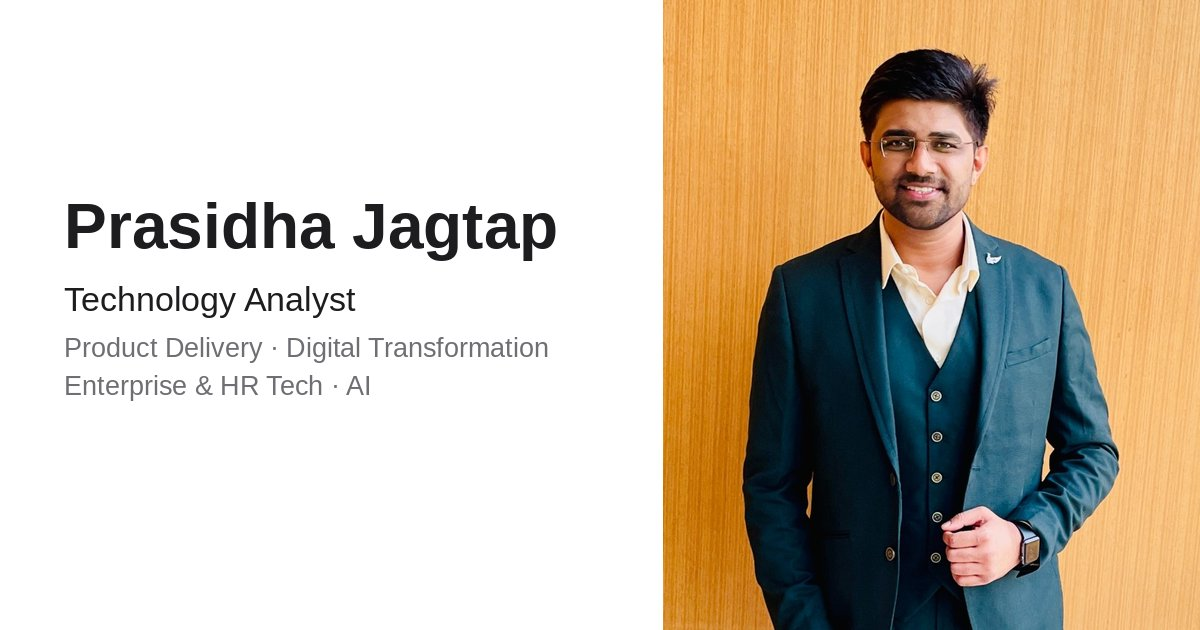
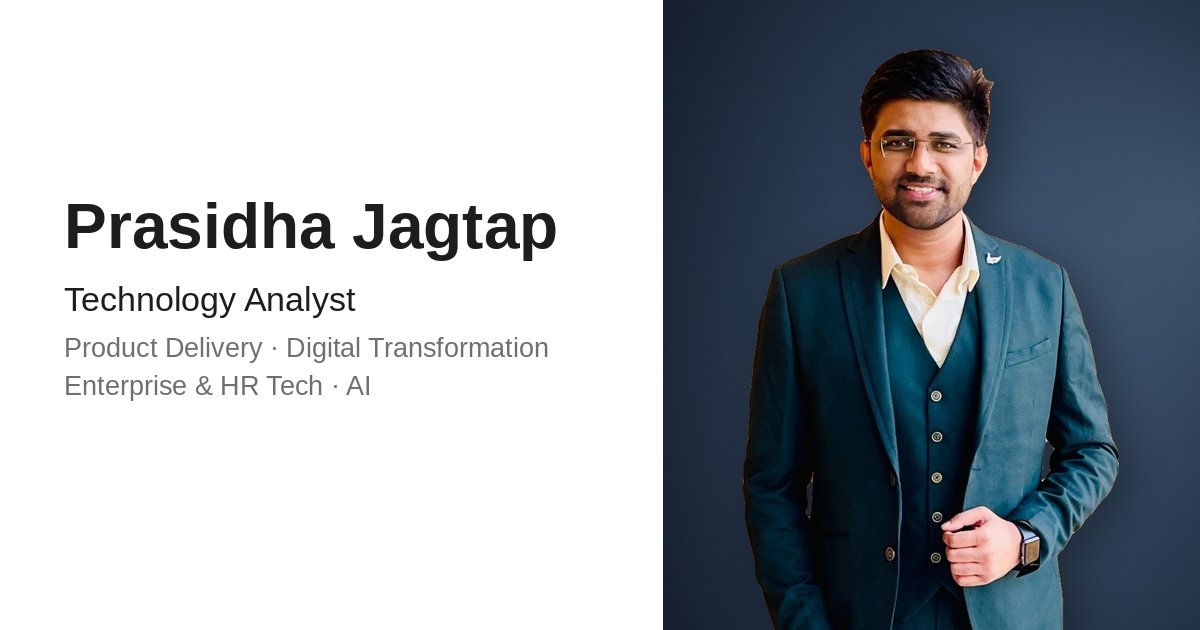
Navy studio photo, security hardening, readability, content updates
- Main photo: background removed, clean navy studio backdrop; share image too
- Security: strict Content-Security-Policy, referrer policy, frame
  protection (page hides inside other sites), noreferrer links, no inline
  scripts/styles; right-click and view-source shortcuts blocked (except
  in form fields)
- Readability: screen-adaptive spacing, darker secondary text, larger text
  on big monitors, no lone gaps on tablets, AI intro overlap fixed
- Content: Geo-Attendance split into geo-fencing training and own
  geo-tagging prototype; social media as a skill beyond the day-to-day
  role (3,500+ followers, 1,000+ avg impressions); Group Awards App
  end-to-end ownership; 5,000+ users trained; training caption
- Résumé rebuilt with the same changes

Claude-Session: https://claude.ai/code/session_01JPGdnBRq2TYSBfxkyxQch4

Changed region(s): [[0.5242, 0.0, 1.0, 1.0], [0.8633, 0.6937, 0.8942, 0.754]]

diff --git a/index.html b/index.html
@@ -4,6 +4,9 @@
   <meta charset="utf-8">
   <meta name="viewport" content="width=device-width, initial-scale=1, viewport-fit=cover">
   <meta http-equiv="X-UA-Compatible" content="IE=edge">
+  <!-- Security: only this site's own files (plus Google Fonts) may load; no injected scripts, frames or plugins -->
+  <meta http-equiv="Content-Security-Policy" content="default-src 'self'; script-src 'self'; style-src 'self' https://fonts.googleapis.com; font-src https://fonts.gstatic.com; img-src 'self' data:; connect-src 'self'; object-src 'none'; base-uri 'self'; form-action 'none'; frame-src 'none'; upgrade-insecure-requests">
+  <meta name="referrer" content="strict-origin-when-cross-origin">
 
   <!-- ===== SEO: main search result text ===== -->
   <!-- SITE ADDRESS: https://prasidhajagtap.github.io/projectP001/
@@ -41,12 +44,8 @@
   <link rel="preconnect" href="https://fonts.googleapis.com">
   <link rel="preconnect" href="https://fonts.gstatic.com" crossorigin>
   <link href="https://fonts.googleapis.com/css2?family=Inter:wght@400;500;600;700&display=swap" rel="stylesheet">
-  <link rel="stylesheet" href="style.css?v=9">
-  <script>
-    // Runs before the page paints: light by default, dark only if the visitor chose it before
-    document.documentElement.className += ' js';
-    try { if (window.localStorage && localStorage.getItem('theme') === 'dark') document.documentElement.setAttribute('data-theme', 'dark'); } catch (e) {}
-  </script>
+  <link rel="stylesheet" href="style.css?v=11">
+  <script src="theme-init.js?v=11"></script>
 
   <!-- ===== Structured data: tells Google and AI search who this page is about ===== -->
   <script type="application/ld+json">
@@ -317,7 +316,7 @@
               <ul>
                 <li>Enhanced the login experience with enterprise single sign-on (SSO) — 15% fewer login issues.</li>
                 <li>Enhanced account recovery and multi-device notification flows for a safer, smoother experience.</li>
-                <li>Built the Geo-Attendance prototype on my own — now used by 5,000+ employees.</li>
+                <li>Built a geo-tagging attendance prototype on my own initiative — fully working.</li>
               </ul>
             </div>
             <div class="area">
@@ -358,7 +357,7 @@
             <div class="area">
               <h4>Training &amp; enablement</h4>
               <ul>
-                <li>495 employees trained in 7 sessions, rated 4.54 / 5.</li>
+                <li>5,000+ users trained on how the app works, including geo-fencing attendance.</li>
                 <li>Clear user guides and stakeholder documents — 20% more feature use. 10+ live demos.</li>
               </ul>
             </div>
@@ -378,7 +377,7 @@
             </summary>
             <ul class="chips">
               <li>Digital ID Card</li>
-              <li>Geo-Attendance</li>
+              <li>Geo-fencing attendance</li>
               <li>Enterprise SSO sign-in</li>
               <li>Account recovery (PIN reset)</li>
               <li>PIN &amp; biometric login</li>
@@ -399,14 +398,20 @@
 
         <!-- Social media, separate from the core role -->
         <article class="role social reveal">
-          <p class="kicker">Alongside the core role</p>
+          <p class="kicker">Skills beyond my day-to-day role</p>
           <h3>Social media &amp; employer branding</h3>
-          <p class="role-intro">I run the company LinkedIn page end to end — content planning, writing, engagement and tracking — turning technology, product and people stories into posts that grow an audience.</p>
-          <div class="mini-stats">
+          <p class="role-intro">I managed the company LinkedIn page end to end — content planning, writing, engagement and tracking — turning technology, product and people stories into posts that grew an audience.</p>
+          <div class="mini-stats two">
             <div><strong>3,500+</strong><span>followers, up from 1,376</span></div>
-            <div><strong>8,068</strong><span>average views, up from 5,430</span></div>
-            <div><strong>58,980+</strong><span>total views</span></div>
+            <div><strong>1,000+</strong><span>average impressions per post</span></div>
           </div>
+          <ul class="chips skill-chips">
+            <li>Content strategy</li>
+            <li>Copywriting</li>
+            <li>Employer branding</li>
+            <li>Community engagement</li>
+            <li>Performance tracking</li>
+          </ul>
         </article>
 
         <!-- Earlier experience -->
@@ -438,10 +443,11 @@
 
         <div class="grid cases">
           <article class="card case reveal">
-            <p class="status">Self-initiative · Now live</p>
-            <h3>Geo-Attendance: from my prototype to a live feature</h3>
-            <p>Teams needed attendance tied to location. On my own time and initiative, I built a complete working prototype. It became the blueprint for the live HR app feature, which our development partner then built into the app.</p>
-            <p class="result"><strong>Used by 5,000+ employees</strong> across multiple locations.</p>
+            <p class="status">Geo-Attendance · Two parts</p>
+            <h3>Geo-fencing training &amp; a geo-tagging prototype</h3>
+            <p><strong>Geo-fencing:</strong> trained business teams on the live geo-fencing attendance feature and on how the app works, end to end.</p>
+            <p><strong>Geo-tagging:</strong> on my own time and initiative, I designed and built a complete, working geo-tagging attendance prototype.</p>
+            <p class="result"><strong>Self-initiative</strong> working prototype · <strong>business teams</strong> trained on geo-fencing.</p>
           </article>
 
           <article class="card case reveal">
@@ -459,9 +465,10 @@
           </article>
 
           <article class="card case reveal">
-            <p class="status">Event app</p>
+            <p class="status">Event app · End-to-end owner</p>
             <h3>Group Awards App</h3>
-            <p>Handled solutioning, upkeep and on-ground support of the event app for a group-wide awards programme in FY 2025&#8209;26, on both iOS and Android.</p>
+            <p>Managed and handled the complete app for a group-wide awards programme in FY 2025&#8209;26 — from solutioning and setup to running it live throughout the event, with on-ground support for attendees on iOS and Android.</p>
+            <ul class="stack"><li>Event-day app operations</li><li>Live issue resolution</li><li>On-ground user support</li><li>Stakeholder coordination</li><li>Store &amp; release readiness</li></ul>
             <p class="result"><strong>1,060 downloads</strong> — 598 iOS, 462 Android.</p>
           </article>
 
@@ -476,7 +483,7 @@
             <p class="status">Enablement</p>
             <h3>Helping people actually use the app</h3>
             <p>Wrote clear user guides and stakeholder documents that make the app easy to use, created standard templates, ran live demos and trained employees.</p>
-            <p class="result"><strong>20% more</strong> feature use · <strong>495</strong> people trained · <strong>35%</strong> better audit readiness.</p>
+            <p class="result"><strong>20% more</strong> feature use · <strong>5,000+</strong> users trained · <strong>35%</strong> better audit readiness.</p>
           </article>
         </div>
       </div>
@@ -492,7 +499,7 @@
         <div class="grid">
           <article class="card reveal">
             <h3>Build with AI</h3>
-            <p>I build working products with AI as my development partner — Seamless Dash, Word Vibe, the Geo-Attendance prototype and this website, made with Claude Code.</p>
+            <p>I build working products with AI as my development partner — Seamless Dash, Word Vibe, the geo-tagging attendance prototype and this website, made with Claude Code.</p>
           </article>
           <article class="card reveal">
             <h3>Find the right use case</h3>
@@ -529,7 +536,7 @@
             <h3>Word Vibe</h3>
             <p>A browser word game taken from idea to product — concept, feature design, UI, database, security, testing and tuning.</p>
             <ul class="stack"><li>JavaScript</li><li>Responsive UI</li><li>Database</li><li>AI-assisted</li></ul>
-            <a class="more" href="https://prasidhajagtap.github.io/word_vibe/" target="_blank" rel="noopener">Play Word Vibe <span aria-hidden="true">›</span></a>
+            <a class="more" href="https://prasidhajagtap.github.io/word_vibe/" target="_blank" rel="noopener noreferrer">Play Word Vibe <span aria-hidden="true">›</span></a>
           </article>
 
           <article class="card project reveal">
@@ -549,23 +556,23 @@
         <h2 class="reveal">Beyond the desk.</h2>
 
         <div class="moments">
-          <figure class="moment reveal" style="--r: 1">
+          <figure class="moment reveal r-1">
             <picture>
               <source srcset="assets/moment-linkedin.webp" type="image/webp">
               <img src="assets/moment-linkedin.jpg" width="1000" height="1000" loading="lazy"
-                   alt="Prasidha Jagtap celebrating a LinkedIn follower milestone on the company LinkedIn page Prasidha manages">
+                   alt="Prasidha Jagtap celebrating a LinkedIn follower milestone on the company page">
             </picture>
-            <figcaption><strong>First milestone.</strong> Celebrating a follower milestone on the company LinkedIn page I manage — now 3,500+ followers.</figcaption>
+            <figcaption><strong>First milestone.</strong> Celebrating a follower milestone on the company LinkedIn page I managed — later grown to 3,500+ followers.</figcaption>
           </figure>
-          <figure class="moment reveal" style="--r: 0.667">
+          <figure class="moment reveal r-667">
             <picture>
               <source srcset="assets/moment-site-visit.webp" type="image/webp">
               <img src="assets/moment-site-visit.jpg" width="800" height="1200" loading="lazy"
-                   alt="Prasidha Jagtap on a site visit to one of the business units">
+                   alt="Prasidha Jagtap on site, training users on the HR app">
             </picture>
-            <figcaption><strong>On the ground.</strong> Visiting a business unit’s site to see how teams really work.</figcaption>
+            <figcaption><strong>On the ground.</strong> Training users on the HR app at a business unit’s site.</figcaption>
           </figure>
-          <figure class="moment reveal" style="--r: 0.75">
+          <figure class="moment reveal r-75">
             <picture>
               <source srcset="assets/moment-ai-summit.webp" type="image/webp">
               <img src="assets/moment-ai-summit.jpg" width="800" height="1067" loading="lazy"
@@ -688,7 +695,7 @@
         <p class="lead reveal">Open to conversations on product ownership, product consulting, digital transformation and AI enablement. Based in Navi Mumbai, from Nagpur.</p>
         <div class="actions reveal">
           <button type="button" class="btn btn-invert" data-contact-open>Email me</button>
-          <a class="btn btn-ghost" href="https://www.linkedin.com/in/prasidhajagtap" target="_blank" rel="noopener me">LinkedIn</a>
+          <a class="btn btn-ghost" href="https://www.linkedin.com/in/prasidhajagtap" target="_blank" rel="noopener noreferrer me">LinkedIn</a>
           <a class="btn btn-ghost" href="assets/Prasidha-Jagtap-Resume.pdf" download data-resume>Résumé</a>
         </div>
       </div>
@@ -749,6 +756,6 @@
     </div>
   </div>
 
-  <script src="main.js?v=9" defer></script>
+  <script src="main.js?v=11" defer></script>
 </body>
 </html>

diff --git a/style.css b/style.css
@@ -732,3 +732,58 @@ h4.kicker { margin-bottom: 14px; }
 @media (prefers-reduced-motion: reduce) {
   .nav ul a:hover, .nav ul a:active, .brand:hover, .brand:active { transform: none !important; }
 }
+
+/* Photo-row ratios as classes (no inline styles, for the security policy) */
+.r-1 { --r: 1; }
+.r-667 { --r: 0.667; }
+.r-75 { --r: 0.75; }
+
+/* ==========================================================
+   Readability & spacing: sizes adapt to every screen (default zoom)
+   ========================================================== */
+:root { --muted: #5f6066; }                        /* a little darker grey text = easier to read */
+:root[data-theme="dark"] { --muted: #b0b0b6; }
+.section { padding: clamp(56px, 7vw, 96px) 0; }
+h2 { margin-bottom: clamp(24px, 3.2vw, 44px); }
+.stats-band { padding-top: clamp(40px, 5vw, 72px); }
+.stat span { font-size: 15px; }
+.chips li { font-size: 15px; }
+.card p, .area ul, .plain, .org { font-size: 16.5px; line-height: 1.55; }
+.footer { font-size: 13px; }
+.earlier { margin-top: 32px; }
+.role + .role { margin-top: 28px; }
+.statement { line-height: 1.25; }
+
+@media (min-width: 1001px) {
+  .hero { padding-top: 56px; }
+}
+@media (min-width: 1440px) {
+  body { font-size: 18px; }
+  .wrap, .nav-inner, .hero { max-width: 1260px; }
+  .card p, .area ul, .plain, .org { font-size: 17.5px; }
+  .stat span { font-size: 16px; }
+}
+/* Tablets: a single leftover card fills the whole row instead of leaving a gap */
+@media (min-width: 735px) and (max-width: 1000px) {
+  .grid.three > :last-child:nth-child(odd) { grid-column: 1 / -1; }
+  .hero { padding-top: 48px; }
+}
+@media (max-width: 734px) {
+  .section { padding: 56px 0; }
+  .hero { padding-top: 40px; }
+  .portrait { margin-top: 32px; }
+  .card, .cert-group { padding: 22px 20px; }
+  .role, .role.small { padding: 22px 18px; }
+  .card p, .area ul, .plain, .org { font-size: 16px; }
+  .statement { font-size: 23px; }
+  h2 { font-size: 32px; }
+  .big { font-size: 44px; }
+}
+.section-lead { margin: -8px 0 clamp(24px, 3.5vw, 40px); }
+
+/* Social media block: two stats + skill tags; awards app skill tags */
+.mini-stats.two { grid-template-columns: repeat(2, minmax(0, 260px)); }
+.skill-chips { margin-top: 18px; }
+.case .stack { margin: 6px -3px 0; padding-top: 6px; }
+.case > p strong { color: var(--text); }
+@media (max-width: 734px) { .mini-stats.two { grid-template-columns: 1fr 1fr; } }

diff --git a/main.js b/main.js
@@ -204,4 +204,22 @@
     }, { rootMargin: '-45% 0px -50% 0px' });
     for (var id in navMap) { var sec = document.getElementById(id); if (sec) navSpy.observe(sec); }
   }
+
+  // ---------- Discourage casual copying: right-click, view-source shortcuts, image dragging ----------
+  // (Right-click still works inside the contact form so people can paste.)
+  var isField = function (el) { var t = el && el.tagName; return t === 'INPUT' || t === 'TEXTAREA' || t === 'SELECT'; };
+  document.addEventListener('contextmenu', function (e) { if (!isField(e.target)) e.preventDefault(); });
+  document.addEventListener('dragstart', function (e) { if (e.target && e.target.tagName === 'IMG') e.preventDefault(); });
+  document.addEventListener('keydown', function (e) {
+    var k = (e.key || '').toLowerCase();
+    var code = e.code || '';
+    if (code.indexOf('Key') === 0) k = code.slice(3).toLowerCase(); // physical key (Option changes e.key on Mac)
+    var mod = e.ctrlKey || e.metaKey;
+    if (k === 'f12' || e.keyCode === 123 ||
+        (mod && (k === 'u' || k === 's')) ||                                   // view source / save page
+        (mod && e.shiftKey && (k === 'i' || k === 'j' || k === 'c')) ||        // developer tools (Windows)
+        (e.metaKey && e.altKey && (k === 'i' || k === 'j' || k === 'c' || k === 'u'))) { // developer tools (Mac)
+      e.preventDefault();
+    }
+  });
 })();

diff --git a/theme-init.js b/theme-init.js
@@ -1,0 +1,12 @@
+// Runs before the page paints (kept in its own file so the page can use a strict security policy).
+// 1) Light by default, dark only if the visitor chose it before.
+// 2) Stop other websites from showing this page inside a frame (clickjacking protection).
+(function () {
+  var root = document.documentElement;
+  root.className += ' js';
+  try { if (window.localStorage && localStorage.getItem('theme') === 'dark') root.setAttribute('data-theme', 'dark'); } catch (e) {}
+  if (window.top !== window.self) {
+    root.style.display = 'none';                       // never show inside someone else's page
+    try { window.top.location = window.self.location.href; } catch (e) {}
+  }
+})();
